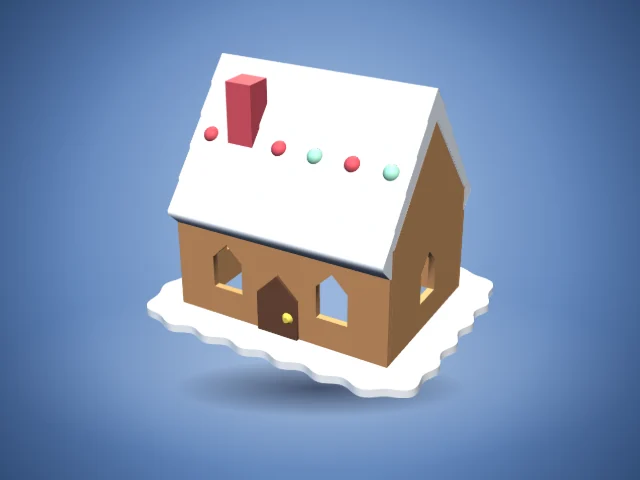
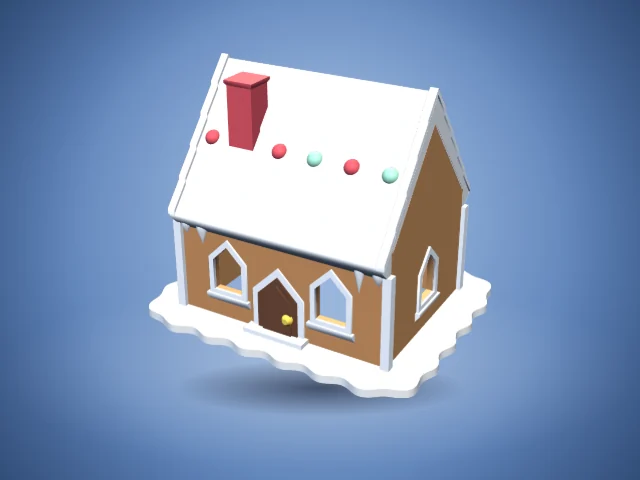
Gingerbread House: add detail (frames, sills, icing trim, icicles)
Window frames and sills (also on the gable ends), door frame, inset door
panel and step, corner posts, raised icing along the gable edges, chimney
cap and icicle cones. All are flat extrusions, 37 degree wedges or cones,
so the print check still reads no supports on defaults and every preset.

Claude-Session: https://claude.ai/code/session_01CWSRf6Sqkr4tiTxQuPvfEn

diff --git a/programs/gingerbread-house.html b/programs/gingerbread-house.html
@@ -120,6 +120,19 @@
         }
         return pts;
       }
+      // Stack of square rings [[y, half-width], ...] about (cx, cz), closed with flat caps.
+      function stackBox(cx, cz, levels) {
+        var o = [], i, k, n = levels.length;
+        function ring(l) { var h = l[1], y = l[0]; return [[cx - h, y, cz - h], [cx + h, y, cz - h], [cx + h, y, cz + h], [cx - h, y, cz + h]]; }
+        for (i = 0; i < n - 1; i++) {
+          var A = ring(levels[i]), B = ring(levels[i + 1]);
+          for (k = 0; k < 4; k++) { var k2 = (k + 1) % 4; tri(o, A[k], A[k2], B[k2]); tri(o, A[k], B[k2], B[k]); }
+        }
+        var F = ring(levels[0]), T = ring(levels[n - 1]);
+        tri(o, F[0], F[2], F[1]); tri(o, F[0], F[3], F[2]);
+        tri(o, T[0], T[1], T[2]); tri(o, T[0], T[2], T[3]);
+        return orient(new Float32Array(o));
+      }
       // Rounded rectangle whose edge bulges outward in soft scallops, like a drift of icing.
       function scallopPts(hw, hd, r, amp, wave) {
         var base = rrectPts(hw, hd, r, 10), dense = [], cum = [0], i, k, a, b, steps, n, per, cnt;
@@ -189,6 +202,7 @@
         door: 0, doorW: 16, doorH: 26, doorX: 0,
         shape: 0, nWin: 2, winW: 12, winH: 18, winY: 14, bar: 0, gable: 1,
         chim: 1, chimW: 10, chimH: 9, chimX: -22,
+        trim: 1, drips: 1, dripL: 7,
         candyRows: 1, candyN: 6, candyR: 3.2,
         snow: 2, snowM: 12, snowT: 3
       };
@@ -225,7 +239,7 @@
 
         // window geometry, kept under the eave corbel and above the snow
         var ww = nWin > 0 ? Math.min(p.winW, L / nWin - 8) : p.winW;
-        var lo = bt + 4, room = yc0 - 4 - lo;           // window tops must stay under the eave corbel
+        var lo = bt + 6, room = yc0 - 4 - lo;           // window tops must stay under the eave corbel
         if (shape === 2) ww = Math.min(ww, (room * 2) / (1 + Math.SQRT2));
         else if (shape === 1) ww = Math.min(ww, room);
         else ww = Math.min(ww, (room - 3) * 2);
@@ -234,13 +248,20 @@
         if (wy + wh > yc0 - 4) wy = Math.max(lo, yc0 - 4 - wh);
         var dw = p.doorW, dh = clamp(p.doorH, dw / 2 + 2, yc0 - 4);
         var dlim = Math.max(0, L / 2 - dw / 2 - t - 3), dx = clamp(p.doorX, -dlim, dlim);
-        function sideHoles(front) {
-          var holes = [], i, cx;
+        function winCenters(front) {
+          var list = [], i, cx;
           for (i = 0; i < nWin; i++) {
             cx = -L / 2 + (L * (i + 0.5)) / nWin;
             if (front && doorType < 2 && Math.abs(cx - dx) < dw / 2 + ww / 2 + 3) continue;
-            windowLoops(shape, ww, winH, bar).forEach(function (lp) { holes.push(place(lp, cx, wy)); });
+            list.push(cx);
           }
+          return list;
+        }
+        function sideHoles(front) {
+          var holes = [];
+          winCenters(front).forEach(function (cx) {
+            windowLoops(shape, ww, winH, bar).forEach(function (lp) { holes.push(place(lp, cx, wy)); });
+          });
           return holes;
         }
 
@@ -286,10 +307,16 @@
         // --- door ---
         if (doorType === 0) {
           var panel = [[dx - dw / 2, 0], [dx + dw / 2, 0], [dx + dw / 2, dh - dw / 2], [dx, dh], [dx - dw / 2, dh - dw / 2]];
-          pushMesh(out, mesh('door', [extrudeXY(THREE, panel, null, a - 0.8, a + 1.2)]));
+          var doorList = [extrudeXY(THREE, panel, null, a - 0.8, a + 1.2)], kz = a + 1.2;
+          var w2 = dw - 4.4, h2 = dh - 5.3;
+          if (fix(p.trim) >= 1 && h2 >= w2 / 2 + 2) {
+            doorList.push(extrudeXY(THREE, pointedPts(w2, h2).map(function (q) { return [q[0] + dx, q[1] + 2.2]; }), null, a + 0.8, a + 1.9));
+            kz = a + 1.9;
+          }
+          pushMesh(out, mesh('door', doorList));
           // a short 40 degree frustum: a round knob with an overhang that needs no support
           var knob = lathe([[0, -0.9], [2.1, -0.9], [2.1, 0.3], [1.1, 1.5], [0, 1.5]], 24);
-          pushMesh(out, mesh('knob', [xform(knob, { rx: Math.PI / 2, t: [dx + dw / 2 - 3.6, dh * 0.42, a + 1.2] })]));
+          pushMesh(out, mesh('knob', [xform(knob, { rx: Math.PI / 2, t: [dx + dw / 2 - 3.6, dh * 0.42, kz] })]));
         }
 
         // --- chimney on the front slope ---
@@ -300,7 +327,80 @@
           var cx = clamp(p.chimX, -L / 2 + t + cw / 2 + 3, L / 2 - t - cw / 2 - 3);
           var yb1 = plane(z1) - rv / 2, yb2 = plane(z2) - rv / 2, yTop = topY(z1) + p.chimH;
           chim = { x: cx, z1: z1, z2: z2, w: cw };
-          pushMesh(out, mesh('chimney', [extrudeYZ(THREE, [[yb1, z1], [yb2, z2], [yTop, z2], [yTop, z1]], null, cx - cw / 2, cx + cw / 2)]));
+          var chimList = [extrudeYZ(THREE, [[yb1, z1], [yb2, z2], [yTop, z2], [yTop, z1]], null, cx - cw / 2, cx + cw / 2)];
+          if (fix(p.trim) >= 1) chimList.push(stackBox(cx, (z1 + z2) / 2, [[yTop - 0.4, cw / 2 - 0.2], [yTop - 0.4 + 0.01, cw / 2 - 0.2], [yTop + 0.9, cw / 2 + 0.7], [yTop + 1.9, cw / 2 + 0.7]]));
+          pushMesh(out, mesh('chimney', chimList));
+        }
+
+        // --- detail: window frames and sills, door frame and step, corner posts, gable-edge icing, chimney cap, icicles ---
+        var trimOn = fix(p.trim) >= 1, trimList = [], fr = 2.0, k2 = Math.SQRT2;
+        if (trimOn) {
+          var hh = winHeight(shape, ww, winH);
+          var outerWin = shape === 1 ? diamondPts(ww + 2.6 * fr, hh + 2.6 * fr).map(function (q) { return [q[0], q[1] - 1.3 * fr]; })
+            : shape === 2 ? dropPts(ww + 2 * fr).map(function (q) { return [q[0], q[1] - fr]; })
+            : pointedPts(ww + 2 * fr, hh + fr + fr * k2).map(function (q) { return [q[0], q[1] - fr]; });
+          var gHolesOuter = nWin > 0 || fix(p.gable) >= 1;
+          [[1, true], [-1, false]].forEach(function (sd) {
+            winCenters(sd[1]).forEach(function (cx) {
+              var holes = windowLoops(shape, ww, winH, bar).map(function (lp) { return place(lp, cx, wy); });
+              var z0 = sd[0] > 0 ? a - 0.3 : -a - 0.9, z1 = sd[0] > 0 ? a + 0.9 : -a + 0.3;
+              trimList.push(extrudeXY(THREE, place(outerWin, cx, wy), holes, z0, z1));
+              // sill: a wedge with a 37 degree underside, so it needs no support
+              var ys = wy - fr - 3.6, zs = sd[0];
+              var prof = [[ys, zs * (a - 0.5)], [ys + 3.0, zs * (a + 1.8)], [ys + 4.0, zs * (a + 1.8)], [ys + 4.0, zs * (a - 0.5)]];
+              trimList.push(extrudeYZ(THREE, prof, null, cx - ww / 2 - 3, cx + ww / 2 + 3));
+            });
+          });
+          if (fix(p.gable) >= 1 && gHolesOuter) {
+            var gl = windowLoops(shape, ww, winH, bar).map(function (lp) { return place(lp, 0, wy).map(function (q) { return [q[1], q[0]]; }); });
+            var go = place(outerWin, 0, wy).map(function (q) { return [q[1], q[0]]; });
+            trimList.push(extrudeYZ(THREE, go, gl, hl - 0.3, hl + 0.9));
+            trimList.push(extrudeYZ(THREE, go, gl, -hl - 0.9, -hl + 0.3));
+            var yg = wy - fr - 3.6;
+            [1, -1].forEach(function (sx) {
+              trimList.push(extrudeXY(THREE, [[sx * (hl - 0.5), yg], [sx * (hl + 1.8), yg + 3.0], [sx * (hl + 1.8), yg + 4.0], [sx * (hl - 0.5), yg + 4.0]], null, -ww / 2 - 3, ww / 2 + 3));
+            });
+          }
+          // door frame and a step
+          if (doorType < 2) {
+            var fd = 2.4, oh = dh + fd * k2, ow = dw / 2 + fd, sh0 = oh - ow;
+            var ring;
+            if (doorType === 0) {
+              ring = [[-ow, 0], [ow, 0], [ow, sh0], [0, oh], [-ow, sh0]].map(function (q) { return [q[0] + dx, q[1]]; });
+            } else {
+              ring = [[-ow, 0], [-dw / 2, 0], [-dw / 2, dh - dw / 2], [0, dh], [dw / 2, dh - dw / 2], [dw / 2, 0], [ow, 0], [ow, sh0], [0, oh], [-ow, sh0]].map(function (q) { return [q[0] + dx, q[1]]; });
+            }
+            trimList.push(extrudeXY(THREE, ring, null, a - 0.4, a + 0.7));
+            var stepH = bt + 2.0;
+            trimList.push(extrudePlan(THREE, [[dx - dw / 2 - 4, a - 0.4], [dx + dw / 2 + 4, a - 0.4], [dx + dw / 2 + 4, a + 5], [dx - dw / 2 - 4, a + 5]], null, 0, stepH));
+          }
+          // corner posts, tucked under the eave corbel
+          [[1, 1], [1, -1], [-1, 1], [-1, -1]].forEach(function (c) {
+            var cx0 = c[0] * hl, cz0 = c[1] * a;
+            trimList.push(extrudePlan(THREE, [[cx0 - 1.6, cz0 - 1.6], [cx0 + 1.6, cz0 - 1.6], [cx0 + 1.6, cz0 + 1.6], [cx0 - 1.6, cz0 + 1.6]], null, 0, yc0 + 1.8));
+          });
+          // icing along both gable edges of the roof, following the tile steps
+          var full = topR.concat(left), upper = full.map(function (q) { return [q[1] + 1.4, q[0]]; }), lower = full.slice().reverse().map(function (q) { return [q[1] - 0.8, q[0]]; });
+          var bead = upper.concat(lower);
+          trimList.push(extrudeYZ(THREE, bead, null, L / 2 - 2.4, L / 2 + 0.6));
+          trimList.push(extrudeYZ(THREE, bead, null, -L / 2 - 0.6, -L / 2 + 2.4));
+          pushMesh(out, mesh('trim', trimList));
+        }
+
+        // icicles: narrow cones (17 degrees off vertical) half sunk into the wall face under the eave corbel
+        if (fix(p.drips) >= 1) {
+          var dl = [], di, dxp, len, rr, nD = Math.max(3, Math.round(L / 7)), clear;
+          for (di = 0; di < nD; di++) {
+            dxp = -L / 2 + (L * (di + 0.5)) / nD;
+            len = p.dripL * (0.55 + 0.9 * ((di * 37 % 11) / 10)); rr = 1.8 + 0.6 * ((di * 17 % 5) / 4);
+            [[1, true], [-1, false]].forEach(function (sd) {
+              clear = winCenters(sd[1]).some(function (cx) { return Math.abs(cx - dxp) < ww / 2 + 4; }) ||
+                (sd[1] && doorType < 2 && Math.abs(dxp - dx) < dw / 2 + 6);
+              if (clear) return;
+              dl.push(xform(lathe([[0, -len], [rr, 0], [rr, 1.2], [0, 1.2]], 16), { t: [dxp, yc0 + 0.9, sd[0] * (a + 0.3)] }));
+            });
+          }
+          pushMesh(out, mesh('drips', dl));
         }
 
         // --- gumdrops ---
@@ -356,7 +456,7 @@
           { name: 'Cocoa', color: '#6b4430' }, { name: 'Licorice', color: '#33343d' }
         ],
         defaultColor: '#c98a55',
-        partNames: { walls: 'Walls', roof: 'Roof', door: 'Door', knob: 'Door knob', chimney: 'Chimney', candy: 'Gumdrops', candy2: 'Gumdrops (second colour)', base: 'Snow base' },
+        partNames: { walls: 'Walls', roof: 'Roof', trim: 'Icing trim', drips: 'Icicle drips', door: 'Door', knob: 'Door knob', chimney: 'Chimney', candy: 'Gumdrops', candy2: 'Gumdrops (second colour)', base: 'Snow base' },
         parameters: [
           slider('House', 'len', 'Length', ' mm', 60, 120, 1, DEFAULTS.len),
           slider('House', 'dep', 'Depth (inside must stay wide enough for a tea light)', ' mm', 50, 90, 1, DEFAULTS.dep),
@@ -378,6 +478,9 @@
           slider('Windows', 'winY', 'Window height above the ground', ' mm', 8, 30, 1, DEFAULTS.winY),
           sh(choice('Windows', 'bar', 'Window bar (pointed windows)', BARS, DEFAULTS.bar), function (q) { return fix(q.shape) === 0; }),
           choice('Windows', 'gable', 'Windows in the gable ends', ['None', 'Both ends'], DEFAULTS.gable),
+          choice('Detail', 'trim', 'Frames, sills, corner posts and icing trim', ONOFF, DEFAULTS.trim),
+          choice('Detail', 'drips', 'Icicle drips under the eaves', ONOFF, DEFAULTS.drips),
+          sh(slider('Detail', 'dripL', 'Icicle length', ' mm', 4, 12, 1, DEFAULTS.dripL), function (q) { return fix(q.drips) >= 1; }),
           choice('Chimney', 'chim', 'Chimney', ONOFF, DEFAULTS.chim),
           sh(slider('Chimney', 'chimW', 'Chimney width', ' mm', 8, 16, 1, DEFAULTS.chimW), function (q) { return fix(q.chim) >= 1; }),
           sh(slider('Chimney', 'chimH', 'Chimney height above the roof', ' mm', 4, 20, 1, DEFAULTS.chimH), function (q) { return fix(q.chim) >= 1; }),

diff --git a/docs/gingerbread-house.md b/docs/gingerbread-house.md
@@ -12,8 +12,10 @@ Y up, millimetres, long side along X, the front door on +Z. The model sits on th
 | --- | --- |
 | `walls` | Four plates: front and back (extruded along Z, with the window holes and, for an open doorway, a notch) and two gable ends (extruded along X, pentagon outline). The gable plates stop inside the long walls so no two shells share an edge. |
 | `roof` | **One profile extruded along X**: a thick inverted V. The underside is the ceiling (rises at the roof pitch, so 40 degrees from vertical or better), the top is the roof, and the eaves are 45 degree corbels (below). Tile rows are steps cut into the profile. |
-| `door`, `knob` | A raised pointed panel on the front wall (only for *Raised door*), and a 40 degree frustum knob. |
-| `chimney` | A box on the front slope. Its bottom edge is cut parallel to the roof and sunk into the middle of the roof thickness, so it never pokes into the room. |
+| `door`, `knob` | A raised pointed panel with a smaller raised inset panel on the front wall (only for *Raised door*), and a 40 degree frustum knob. |
+| `trim` | Icing and trim, one mesh: window frames and 37 degree sills (also on the gable ends), the door frame and a step, four corner posts, and a raised icing bead along both gable edges of the roof (it follows the tile steps). One switch, *Frames, sills, corner posts and icing trim*. |
+| `drips` | Icicles: narrow cones (about 17 degrees off vertical) half sunk into the wall face under the eave corbel, skipped where a window or door is. |
+| `chimney` | A box on the front slope, with a 45 degree flared cap when trim is on. Its bottom edge is cut parallel to the roof and sunk into the middle of the roof thickness, so it never pokes into the room. |
 | `candy`, `candy2` | Gumdrops: low domes sitting on the tiles, alternating between two meshes so they can be two colours. |
 | `base` | Optional snow plate (plain or scalloped), open in the middle so the light still fits. |
 
@@ -23,6 +25,7 @@ Y up, millimetres, long side along X, the front door on +Z. The model sits on th
 - **Eaves on corbels.** A roof that slopes down past the wall would start in mid-air at its lowest point. Instead the overhang is carried by a 45 degree chamfer that starts on the wall face and rises outward (*Wall height under the eaves* is where it starts), and the roof top meets it at a 1.6 mm blunt tip. A thicker roof or a longer overhang makes the wedge bigger, never longer than *Eave overhang* asks (a very thick roof grows the overhang a little so the wall still reaches it).
 - **Every opening has a pointed top.** Windows are pointed (45 degree sides), diamond, or teardrop (a circle with a 45 degree point). The open doorway is pointed too. The centre bar splits a pointed window in two, each half still has a sloped top.
 - **Tiles** are vertical steps on the top face, which are not overhangs. Gumdrops are domes below 70 degrees on a sloping roof, which keeps them under 40 degrees of lean.
+- Every added detail follows the same rule: frames are flat extrusions, sills have a 37 degree underside, icicles are cones, the chimney cap flares at 45 degrees.
 - Windows and the door stay 4 mm under the start of the corbel (they shrink to fit a low wall).
 
 ## Three.js and the hole quirk
